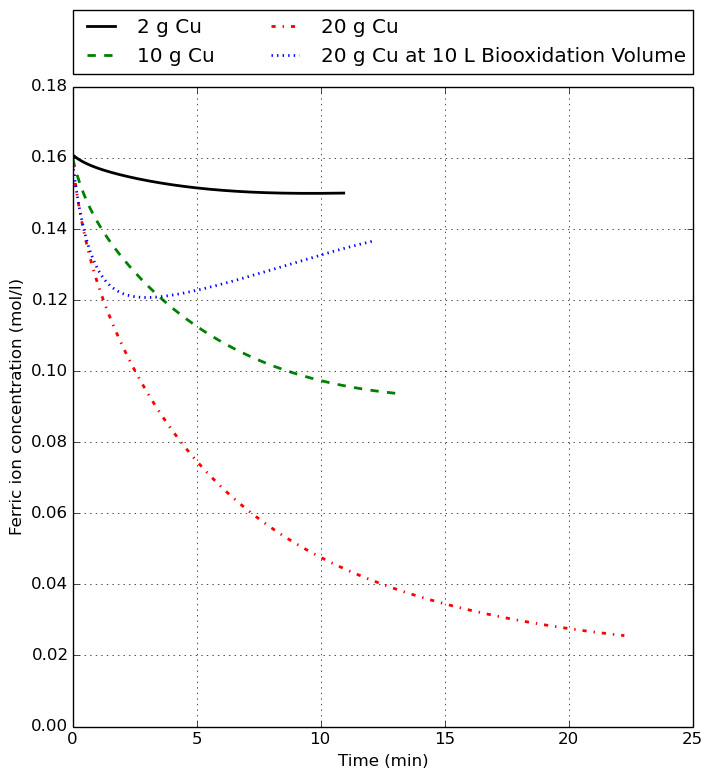
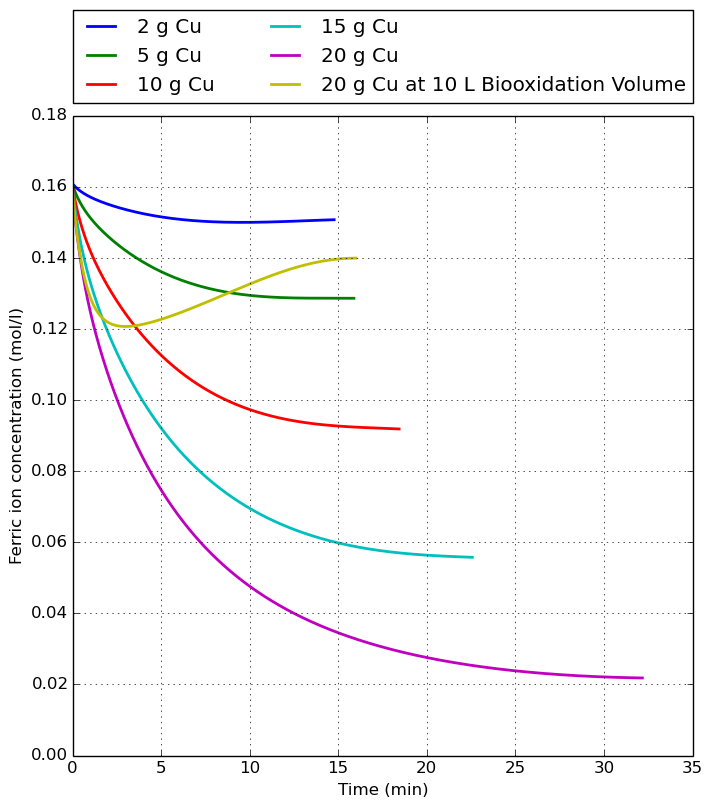
Made changes to simulation run

diff --git a/masters/calculations/management/commands/sensitivity_analysis.py b/masters/calculations/management/commands/sensitivity_analysis.py
@@ -10,7 +10,7 @@ from masters.calculations import system
 # Third party
 import matplotlib.pyplot as plt
 
-CU = 10
+CU = 20
 FERRIC_FERROUS = 1000
 CHEM = 1
 BIOX = 1
@@ -65,7 +65,12 @@ class Command(BaseCommand):
         self.plot_sensitivity_analysis(output, analysis_list)
 
     def volume_sensitivity_analysis(self):
-        analysis_list = [(1, "1 L"),(10, "10 L"), (1000, "1000 L")]
+        analysis_list = [(1, "1 L"),
+                         (3, "3 L"),
+                         (6, "6 L"),
+                         (9, "9 L"),
+                         (12, "12 L"),
+                         (1000, "1000 L")]
         output = {}
 
         for row in analysis_list:
@@ -91,7 +96,11 @@ class Command(BaseCommand):
     #     self.run_sensitivity_analysis(analysis_list)
 
     def metal_sensitivity_analysis(self):
-        analysis_list = [(2, "2 g Cu"),(10, "10 g Cu"), (20, "20 g Cu")]
+        analysis_list = [(2, "2 g Cu"),
+                         (5, "5 g Cu"),
+                         (10, "10 g Cu"),
+                         (15, "15 g Cu"),
+                         (20, "20 g Cu")]
         # default = {"biox": 1, "chem": 1, "ferric_ferrous": 1000}
         # ____analysis_list = [{"Cu": 2, "label": "2 g Cu"},(10, "10 g Cu"), (20, "20 g Cu")]
 
@@ -110,7 +119,10 @@ class Command(BaseCommand):
         self.plot_sensitivity_analysis(output, analysis_list)
 
     def ferric_ferrous_sensitivity_analysis(self):
-        analysis_list = [(1000, "1000"),(10, "10"), (1, "0.1")]
+        analysis_list = [(1000, "1000"),
+                         (10, "10"),
+                         (1, "1"),
+                         (0.1, "0.1")]
         # default = {"biox": 1, "chem": 1, "ferric_ferrous": 1000}
         # ____analysis_list = [{"Cu": 2, "label": "2 g Cu"},(10, "10 g Cu"), (20, "20 g Cu")]
 
@@ -152,7 +164,7 @@ class Command(BaseCommand):
                     metals_chem[k]["Zn2+"].append(row["ions"]["Zn"])
                     metals_chem[k]["Sn2+"].append(row["ions"]["Sn"])
 
-        line_choice = ["k", "b--", "r-.", "g:"]
+        # line_choice = ["k", "b--", "r-.", "g:"]
 
         fig = plt.figure(1, figsize=(8, 8))
         # fig.suptitle("Ferric ion Concentration in Biooxidation Reactor")
@@ -163,7 +175,7 @@ class Command(BaseCommand):
         fig_subplot.grid('on')
 
         for i, item in enumerate(analysis_list):
-            line, = fig_subplot.plot(ferric_biox[item[1]]["time"], ferric_biox[item[1]]["ferric"], line_choice[i], label=item[1])
+            line, = fig_subplot.plot(ferric_biox[item[1]]["time"], ferric_biox[item[1]]["ferric"], label=item[1])
             line.set_linewidth(2)
         plt.legend(ncol=2, mode="expand", loc=3, borderaxespad=0., bbox_to_anchor=(0., 1.02, 1., .102))
         fig.savefig('simulation_figures/'+self.simulate+'/ferric_ion_concentration_biooxidation_reactor.png',
@@ -177,9 +189,8 @@ class Command(BaseCommand):
         # fig_subplot.set_ylim(0, 0.18)
         fig_subplot.grid('on')
 
-        line_choice = ["k", "g--", "r-.", "b:"]
         for i, item in enumerate(analysis_list):
-            line, = fig_subplot.plot(ferric_biox[item[1]]["time"], ferric_biox[item[1]]["biomass"], line_choice[i], label=item[1])
+            line, = fig_subplot.plot(ferric_biox[item[1]]["time"], ferric_biox[item[1]]["biomass"], label=item[1])
             line.set_linewidth(2)
         plt.legend(ncol=2, mode="expand", loc=3, borderaxespad=0., bbox_to_anchor=(0., 1.02, 1., .102))
         fig.savefig('simulation_figures/'+self.simulate+'/biomass_concentration_biooxidation_reactor.png',
@@ -194,7 +205,7 @@ class Command(BaseCommand):
         fig_subplot.grid('on')
 
         for i, item in enumerate(analysis_list):
-            line, = fig_subplot.plot(ferric_chem[item[1]]["time"], ferric_chem[item[1]]["ferric"], line_choice[i], label=item[1])
+            line, = fig_subplot.plot(ferric_chem[item[1]]["time"], ferric_chem[item[1]]["ferric"], label=item[1])
             line.set_linewidth(2)
         plt.legend(ncol=2, mode="expand", loc=3, borderaxespad=0., bbox_to_anchor=(0., 1.02, 1., .102))
         fig.savefig('simulation_figures/'+self.simulate+'/ferric_ion_concentration_chemical_reactor.png',
@@ -208,7 +219,7 @@ class Command(BaseCommand):
         fig_subplot.grid('on')
 
         for i, item in enumerate(analysis_list):
-            line, = fig_subplot.plot(metals_chem[item[1]]["time"], metals_chem[item[1]]["Cu2+"], line_choice[i], label=item[1])
+            line, = fig_subplot.plot(metals_chem[item[1]]["time"], metals_chem[item[1]]["Cu2+"], label=item[1])
             line.set_linewidth(2)
         plt.legend(ncol=2, mode="expand", loc='lower left', borderaxespad=0., bbox_to_anchor=(0., 1.02, 1., .102))
         fig.savefig('simulation_figures/'+self.simulate+'/cupric_ion_concentration_chemical_reactor.png',

diff --git a/masters/calculations/reactions.py b/masters/calculations/reactions.py
@@ -24,7 +24,6 @@ class BioxidationRate(object):
 
     def update_biomass_concentration(self):
         self.component_conc
-        Ks = 0.001  # Total Thumbsuck
         k_d = 0
         # u_max = self.ferrous / (Ks + self.ferrous)
         u_max = (0.13 / 3600.0)
@@ -32,10 +31,8 @@ class BioxidationRate(object):
         self.component_conc = self.component_conc + (1 * rate_biomass)
 
     def simplified_hansford(self):
-        temp_C_x_q_spec_growth_rate = 1.2e-5 # (mol.m^-3.s^-1)
         q_spec_growth_rate = 0.00654157
 
-        # K = 5e-3  # Thanos
         K = 0.0024 # Tunde
         if self.ferrous == 0:
             rate_ferrous = 0.
@@ -86,10 +83,6 @@ class MetalDissolutionRate(object):
         if self.component_conc < 0:
             return 0
 
-        # K = constants.DATA[self.reactant_name]["equation"]["k"] # s-1
-        # alpha = constants.DATA[self.reactant_name]["equation"]["a"]
-        # beta = constants.DATA[self.reactant_name]["equation"]["b"]
-
         if self.ferric == 0:
             # This is because np.power(self.ferric, beta) = 1 if self.ferric = 0 and beta = 0 i.e. 0^0 = 1
             # Occurs in the case of Zinc
@@ -98,23 +91,29 @@ class MetalDissolutionRate(object):
             # rate_ferric = K * np.power(self.component_conc, alpha) * np.power(self.ferric, beta)
             # rate_ferric = K * np.power(self.ferric/self.ferrous, alpha)
             rate_ferric = self.calculate_based_on_conversion()
-        # try:
-        # except:
-        #     import ipdb; ipdb.set_trace()
+            # rate_ferric = self.shrinking_core_model()
 
         self.update_metal_reactant_concentration(rate_ferric)
         self.update_metal_ion_concentration()
         return rate_ferric
+
+    def shrinking_core_model(self):
+        K = constants.DATA[self.reactant_name]["equation"]["K"]
+        n = constants.DATA[self.reactant_name]["equation"]["n"]
+
+        conc = np.power(self.ferric, n)
+
+        a =  3 * K * conc
+        b = - 6 * np.power(K, 2) * np.power(conc, 2) * self.step
+        c =  3 * np.power(K, 3) * np.power(conc, 3) * np.power(self.step, 2)
+        return - (a + b + c) * self.metal_initial
 
     def calculate_based_on_conversion(self):
         K = constants.DATA[self.reactant_name]["equation"]["K"]
         n = constants.DATA[self.reactant_name]["equation"]["n"]
         X = 1 - (1 - K*np.power(self.ferric, n) * (self.step + 1))**3
 
-        rate_ferric = - 2*(X * self.metal_initial - self.metal_ion)/(self.step+1)
-        # print rate_ferric
-        # import ipdb; ipdb.set_trace()
-        # print rate_ferric
+        rate_ferric = - 2 * (X * self.metal_initial - self.metal_ion)/(self.step+1)
         return rate_ferric
 
     def update_metal_reactant_concentration(self, rate_ferric):

diff --git a/masters/calculations/system.py b/masters/calculations/system.py
@@ -26,7 +26,7 @@ class System(object):
         self.system_type = None
         self.system_components = [] # List of all the ions in the system
         self.MAX_TIME = 10 # seconds
-        self.FINAL_CONVERSION = 0.99
+        self.FINAL_CONVERSION = 0.95
 
     def convert_initial_metals_to_moles(self, initial_metals):
         for k, v in initial_metals.iteritems():
@@ -139,7 +139,7 @@ class System(object):
     def convert_to_minutes(self, i):
         return i / 60.0
 
-    def check_conversion_above_threshohold(self):
+    def check_conversion_above_threshhold(self):
         """
         Checks if the cummulative conversion is over the specified threshold
         """
@@ -167,7 +167,7 @@ class System(object):
 
             # Should be sum of the metal concentrations
             # If sum(self.metals_rate) < sum(self.initial_rates)
-            if self.check_conversion_above_threshohold():
+            if self.check_conversion_above_threshhold():
                 status = {"success": True, "message": "Simulation completed succesfully"}
                 break
 
